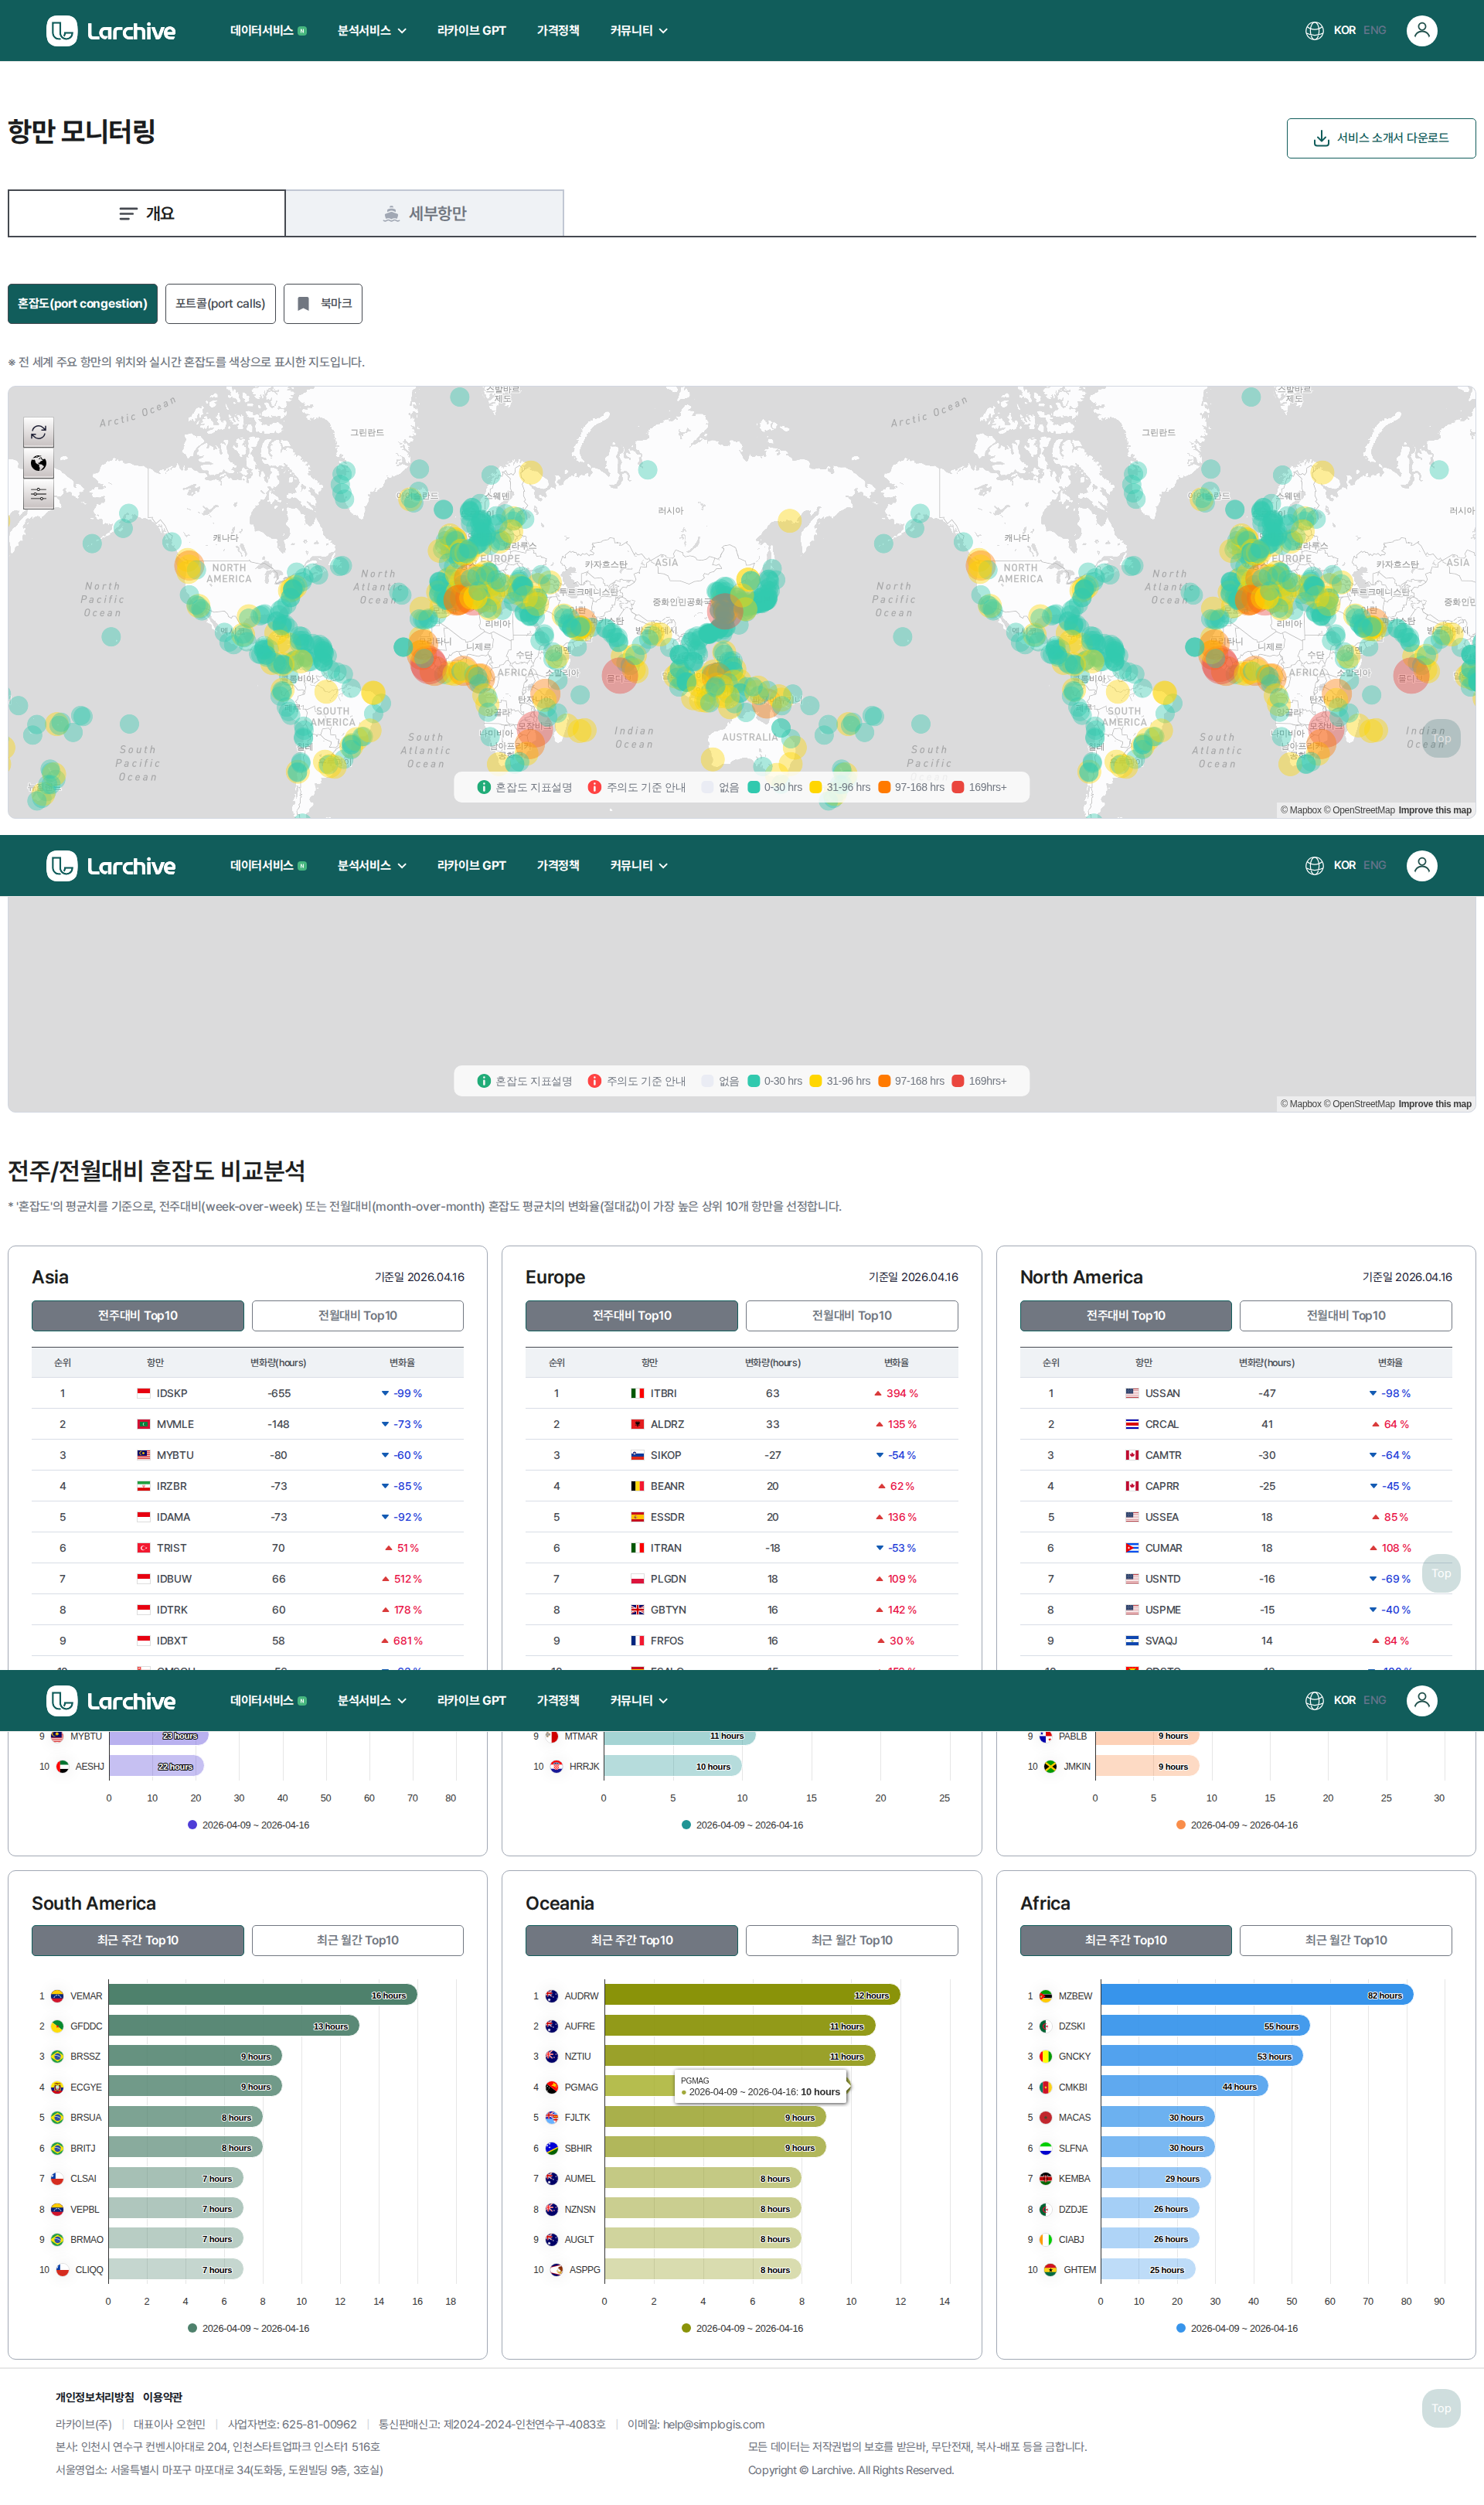
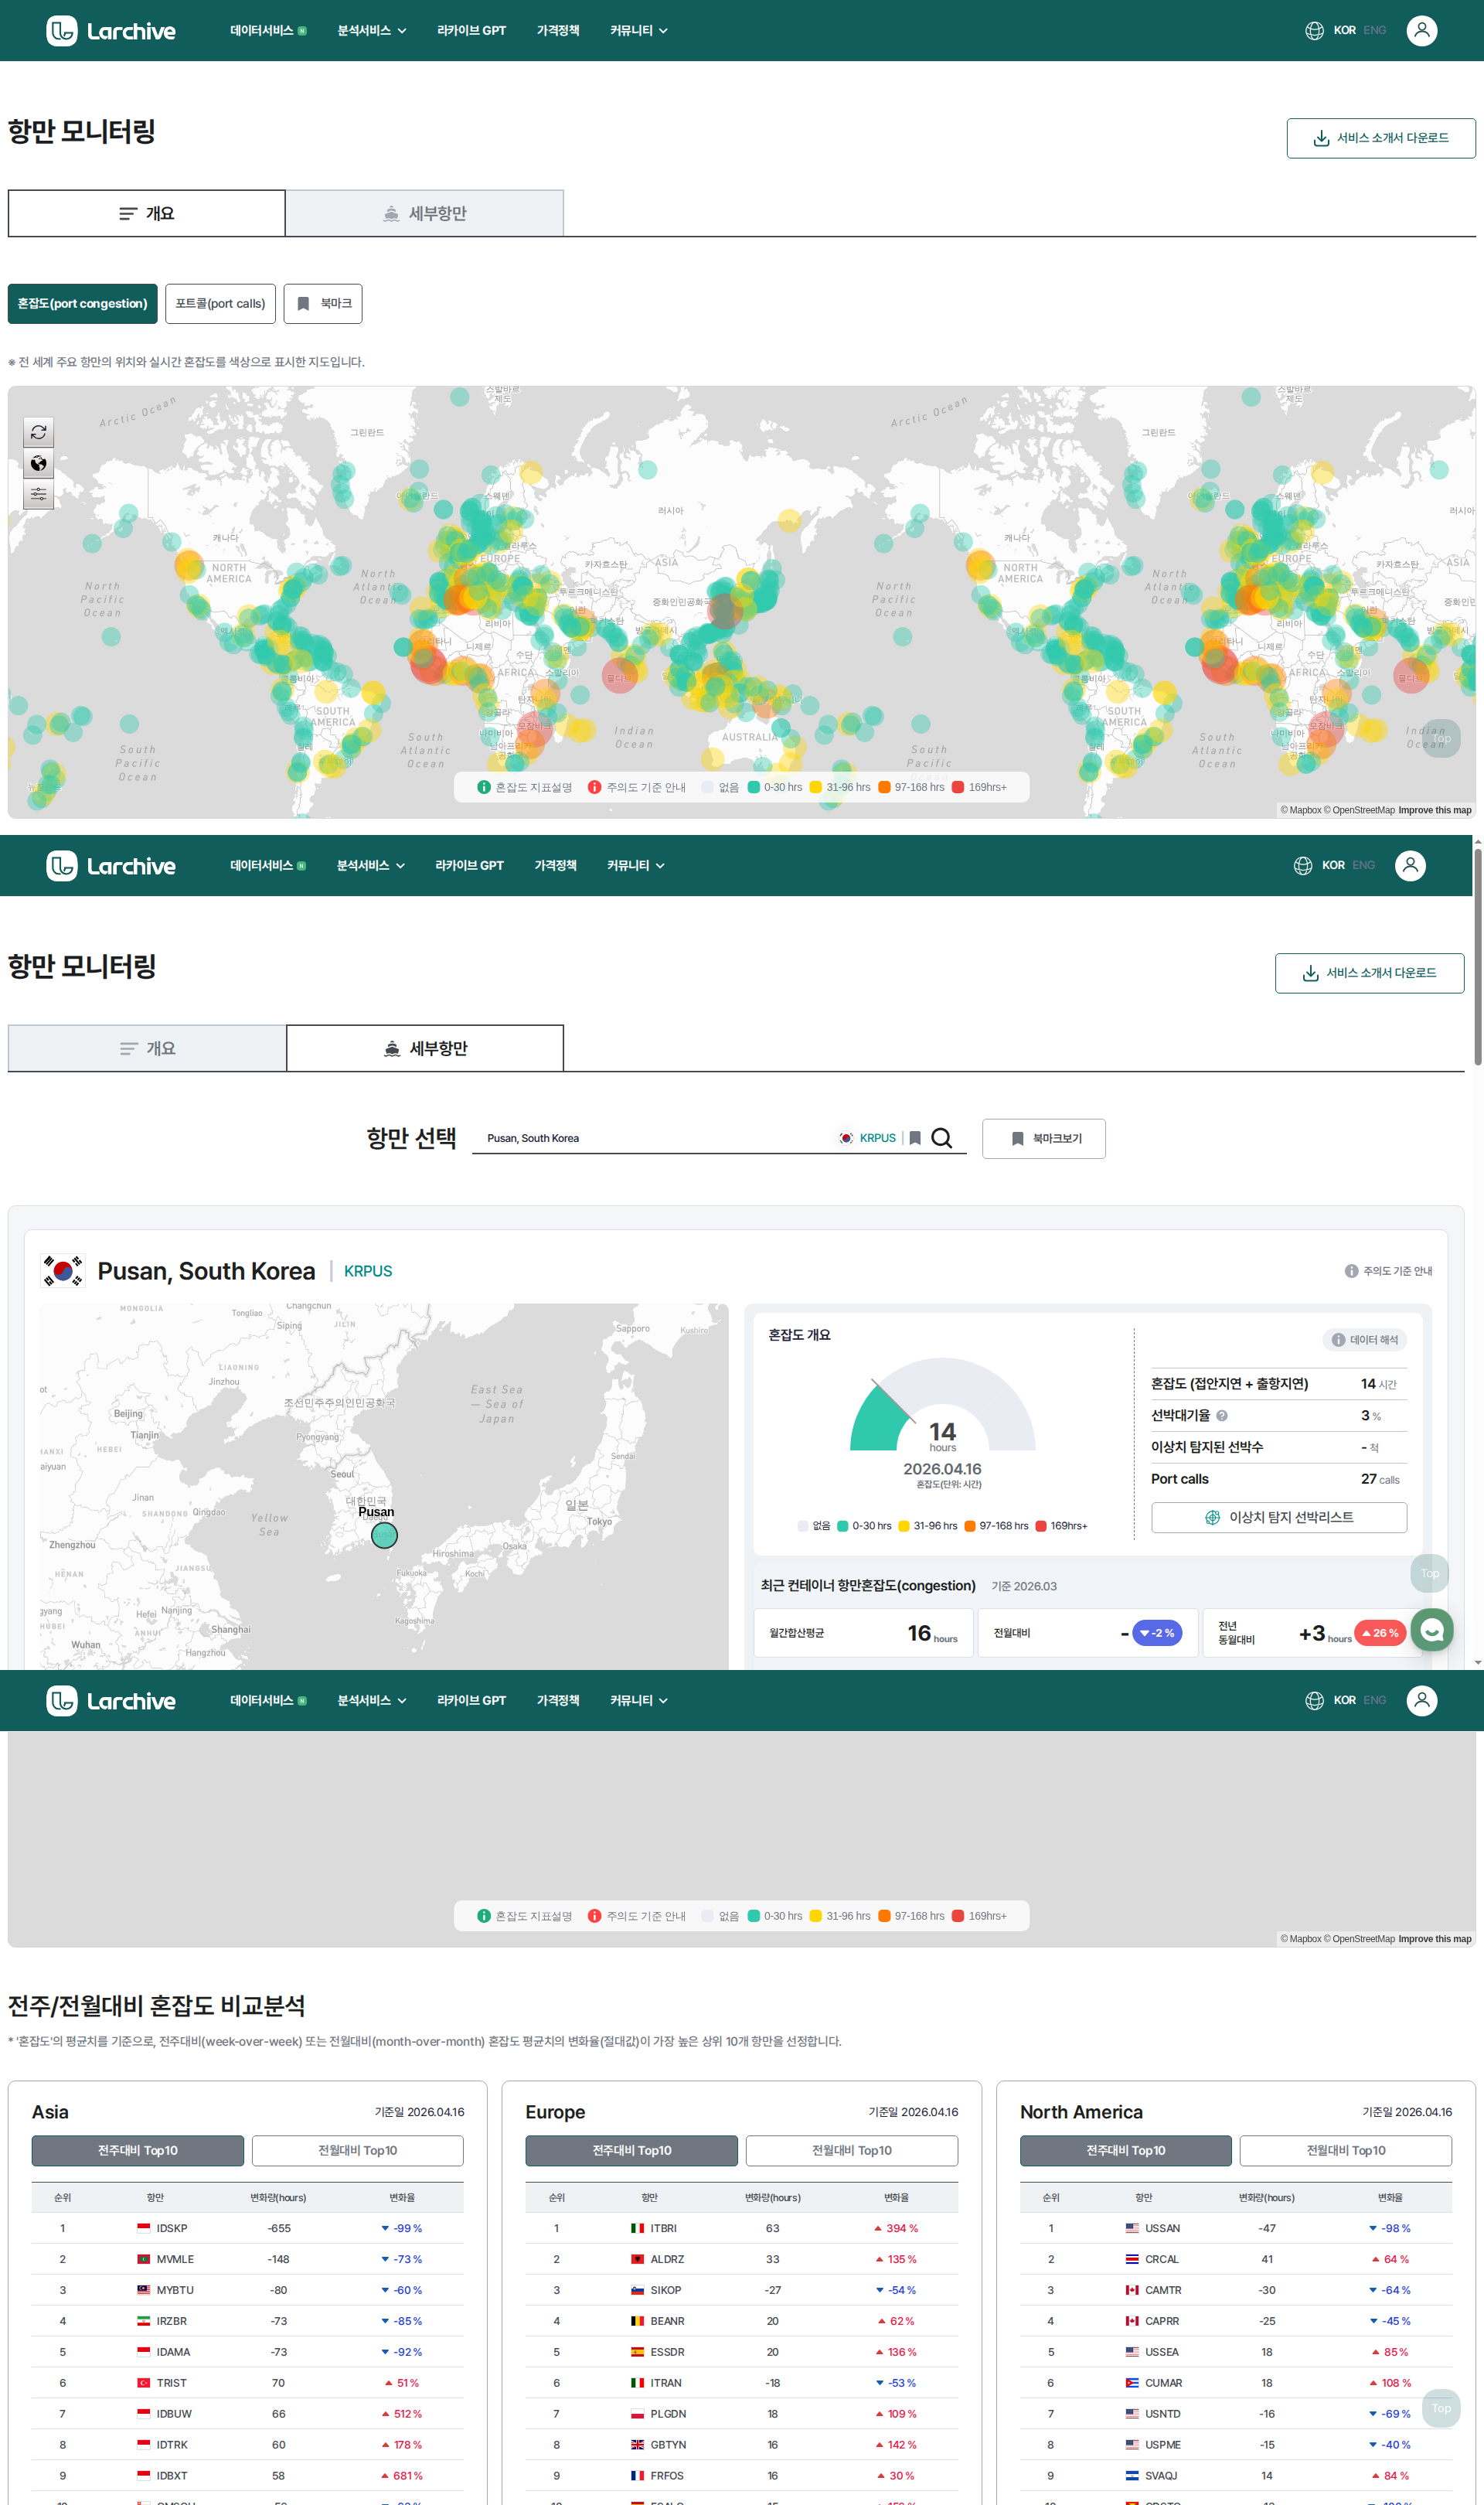
update: 세부항만(부산) + 예측분석 그래프 캡쳐 추가, KAIST DSAIL 명시
- 항만 합본: 지도 + 부산 세부항만(Port Calls/혼잡도) + 대륙별 비교
- 운임 합본: 브리핑 + 예측분석(해상) 그래프 + 이슈분석
- 이마트 → KAIST DSAIL (박찬영 교수) 대학원 프로젝트로 수정

diff --git a/README.md b/README.md
@@ -35,7 +35,7 @@
 **풀스택 설계·개발·배포·운영** | 2025 – 현재 | 🟡 Beta 운영 중
 
 - 전 세계 선박 실시간 위치 추적 + 항만 혼잡도 모니터링 대시보드
-- 혼잡도(port congestion), RT 혼잡(port units), 해역 뷰 + 세부항만 상세 분석
+- 혼잡도(port congestion), RT 혼잡(port units), 해역 뷰 + 세부항만 상세 분석 (Port Calls, 주간 혼잡도 리포트)
 - 13개 주요 초크포인트(수에즈, 말라카 등) 30분 주기 자동 수집, 20개 항만 혼잡도 스냅샷
 - 이상 탐지(좌초, AIS 불일치 등) 자동 알림 시스템
 - Marinesia API 연동, 요금 최적화(시간당 90콜, 30% 사용률 유지)
@@ -150,7 +150,7 @@
 
 ### 이마트 데이터 분석
 
-> **소속**: 신세계그룹 (대학원 프로젝트)
+> **소속**: KAIST [DSAIL](https://dsail.kaist.ac.kr/) (박찬영 교수 연구실)
 
 `Python` `Jupyter` `Pandas`
 